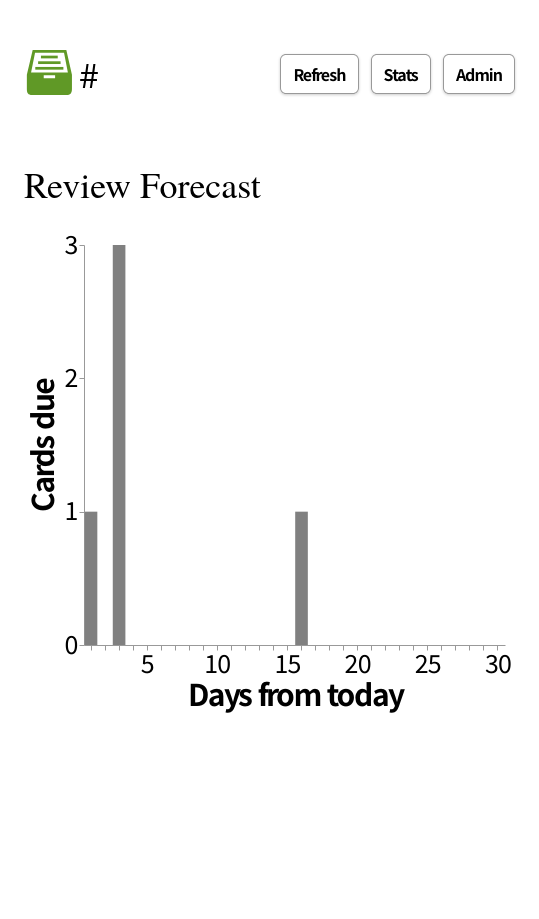
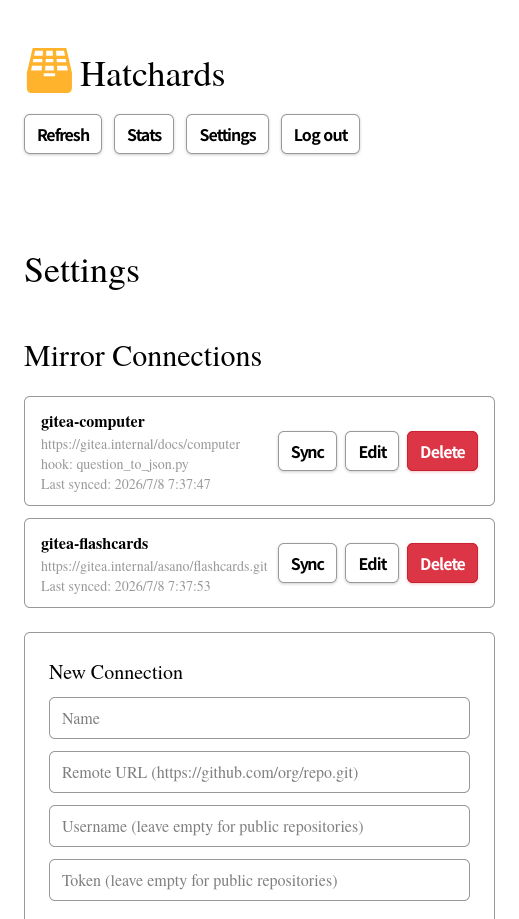
chore

diff --git a/README.md b/README.md
@@ -40,7 +40,7 @@ This application is programmable and automates flashcard generation from Q&A lis
 >[!WARNING]
 >This app is still under development.
 
-<img src=".github/assets/sample-01.png" width="300" /><img src=".github/assets/sample-02.png" width="300" />
+<img src=".github/assets/sample-01.png" width="300" /><img src=".github/assets/sample-02.png" width="300" /><img src=".github/assets/sample-03.png" width="300" />
 
 ## Example
 